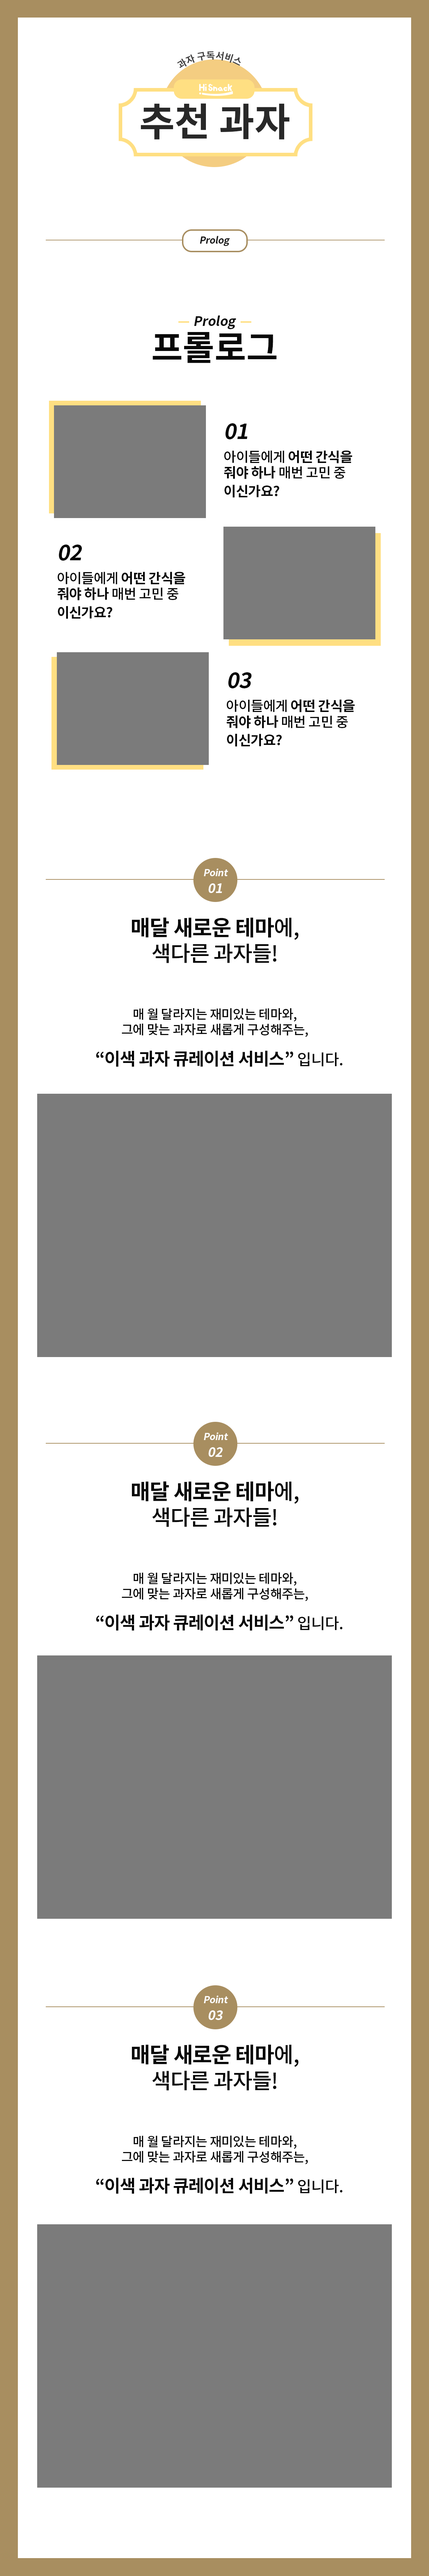
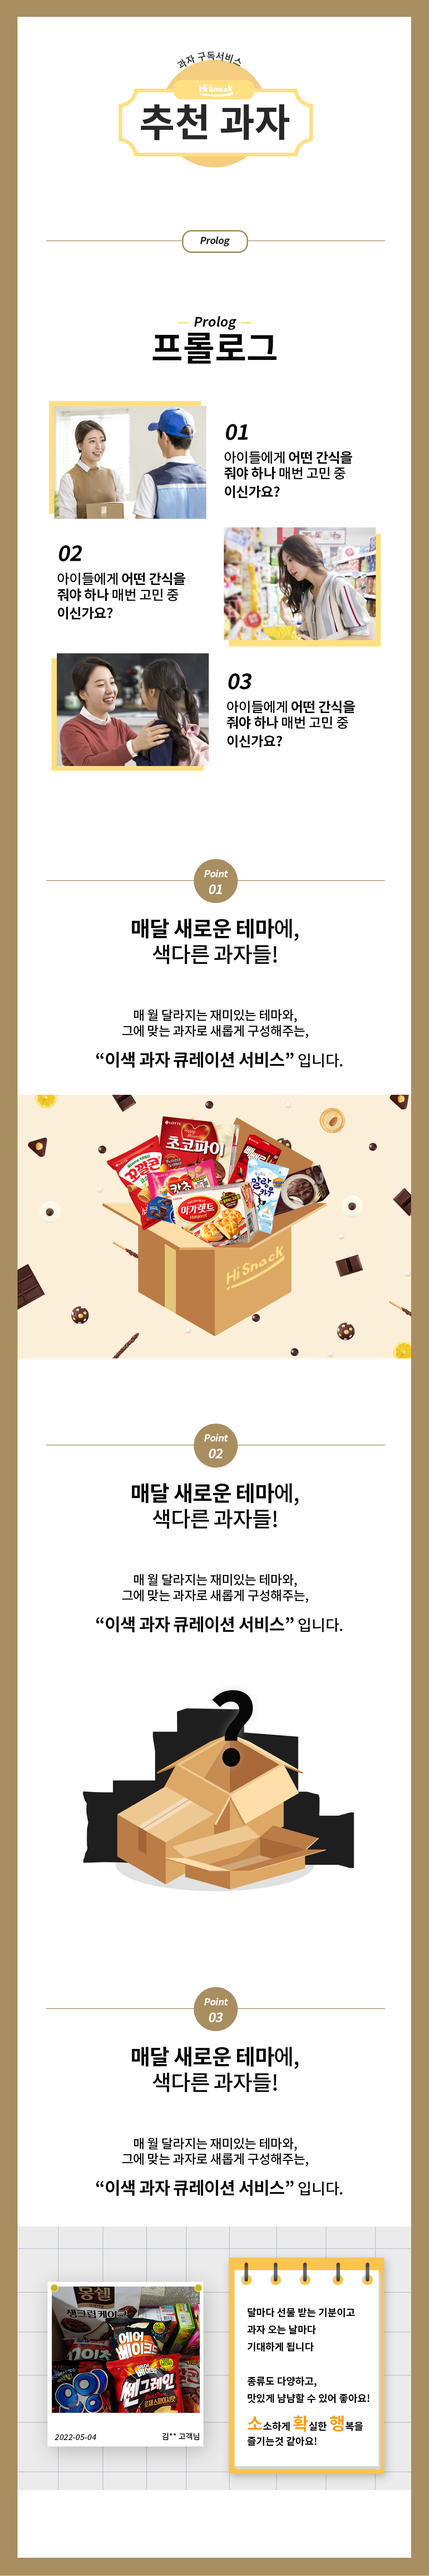
chore : 각 메인비주얼 이미지 CSS적용

diff --git a/src/main/webapp/resources/css/index.css b/src/main/webapp/resources/css/index.css
@@ -122,8 +122,9 @@ body {
 }
 .reviewfont-size {
   font-family: var(--noto);
-  font-size: 2.375rem;
-  font-weight: 500;
+  font-size: 2.5rem;
+  font-weight: 600;
+  color : var(--color-black);
 }
 .reviewcontent-size {
   font-family: var(--noto);
@@ -150,7 +151,7 @@ body {
 }
 /* swiper 시작*/
 .swiper {
-  width: auto;
+  width: 100%;
   height: 550px;
 }
 .swiper-slide {
@@ -163,7 +164,9 @@ body {
   display: block;
   width: 100%;
   height: 100%;
-  object-fit: cover;
+  object-fit: cover !important;
+  background-size: cover !important;
+  margin-right: 0px !important;
 }
 .review-div {
   width: 1200px;
@@ -282,4 +285,28 @@ body {
   opacity: 80%;
   padding: 4px;
   border-radius: 50px;
+}
+.bgrimg {
+	background-image: url("/re/img/main_swiper_1.png");
+	background-repeat:no-repeat;
+	background-position: center center;
+	height: 550px;
+	background-size: cover;
+	
+	
+}
+.backgroungcolorrandom {
+	background-color: black;
+	width: 100%;
+	height: 100%;
+}
+.parallaxbox {
+	background-attachment: fixed;
+	background-position: center;
+	background-repeat: no-repeat;
+	background-size: cover;
+}
+.parallaximg {
+	background-image: url("/re/img/saleimg.jpg");
+	height: 360px;
 }

diff --git a/src/main/webapp/resources/js/index.js b/src/main/webapp/resources/js/index.js
@@ -2,7 +2,7 @@ $(function() {
 	// swiper 동작 설정을 위한 객체
 	var swiper = new Swiper(".mySwiper", {
 		slidesPerView: '4',
-		spaceBetween: -5,
+		spaceBetween: 0,
 		slidesPerGroup: 1,
 		
 		navigation: {
@@ -14,7 +14,7 @@ $(function() {
 
 	var mainSwiper = new Swiper(".mainSwiper", {
 		slidesPerView: '1',
-		spaceBetween: -5,
+		spaceBetween: 0,
 		slidesPerGroup: 1,
 
 		autoplay: {

diff --git a/src/main/webapp/resources/css/shopping.css b/src/main/webapp/resources/css/shopping.css
@@ -4,7 +4,10 @@ body{
 
 .shopping-list-visual{
 	height: 440px;
-	background: #bcbcbc;
+	background-image: url("/re/img/shop_mainimg.png");
+	background-repeat:no-repeat;
+	background-position: center center;
+	
 }
 .shopping-container{
 	width: 1200px;

diff --git a/src/main/webapp/resources/css/detail.css b/src/main/webapp/resources/css/detail.css
@@ -3,8 +3,9 @@
 .subbox {
 	width: 600px;
 	height: 600px;
-	background-color: antiquewhite;
+	background-color: var(--color-light-gray);
 	border-radius: 50px;
+	/* box-shadow: 0px 0px 15px var(--color-light-gray); */
 }
 
 .subtextbox {

diff --git a/src/main/webapp/resources/css/review.css b/src/main/webapp/resources/css/review.css
@@ -4,7 +4,9 @@ body {
 
 .review-list-visual {
 	height: 440px;
-	background: #bcbcbc;
+	background-image: url("/re/img/review_mainimg.png");
+	background-repeat:no-repeat;
+	background-position: center center;
 }
 
 .review-container {
